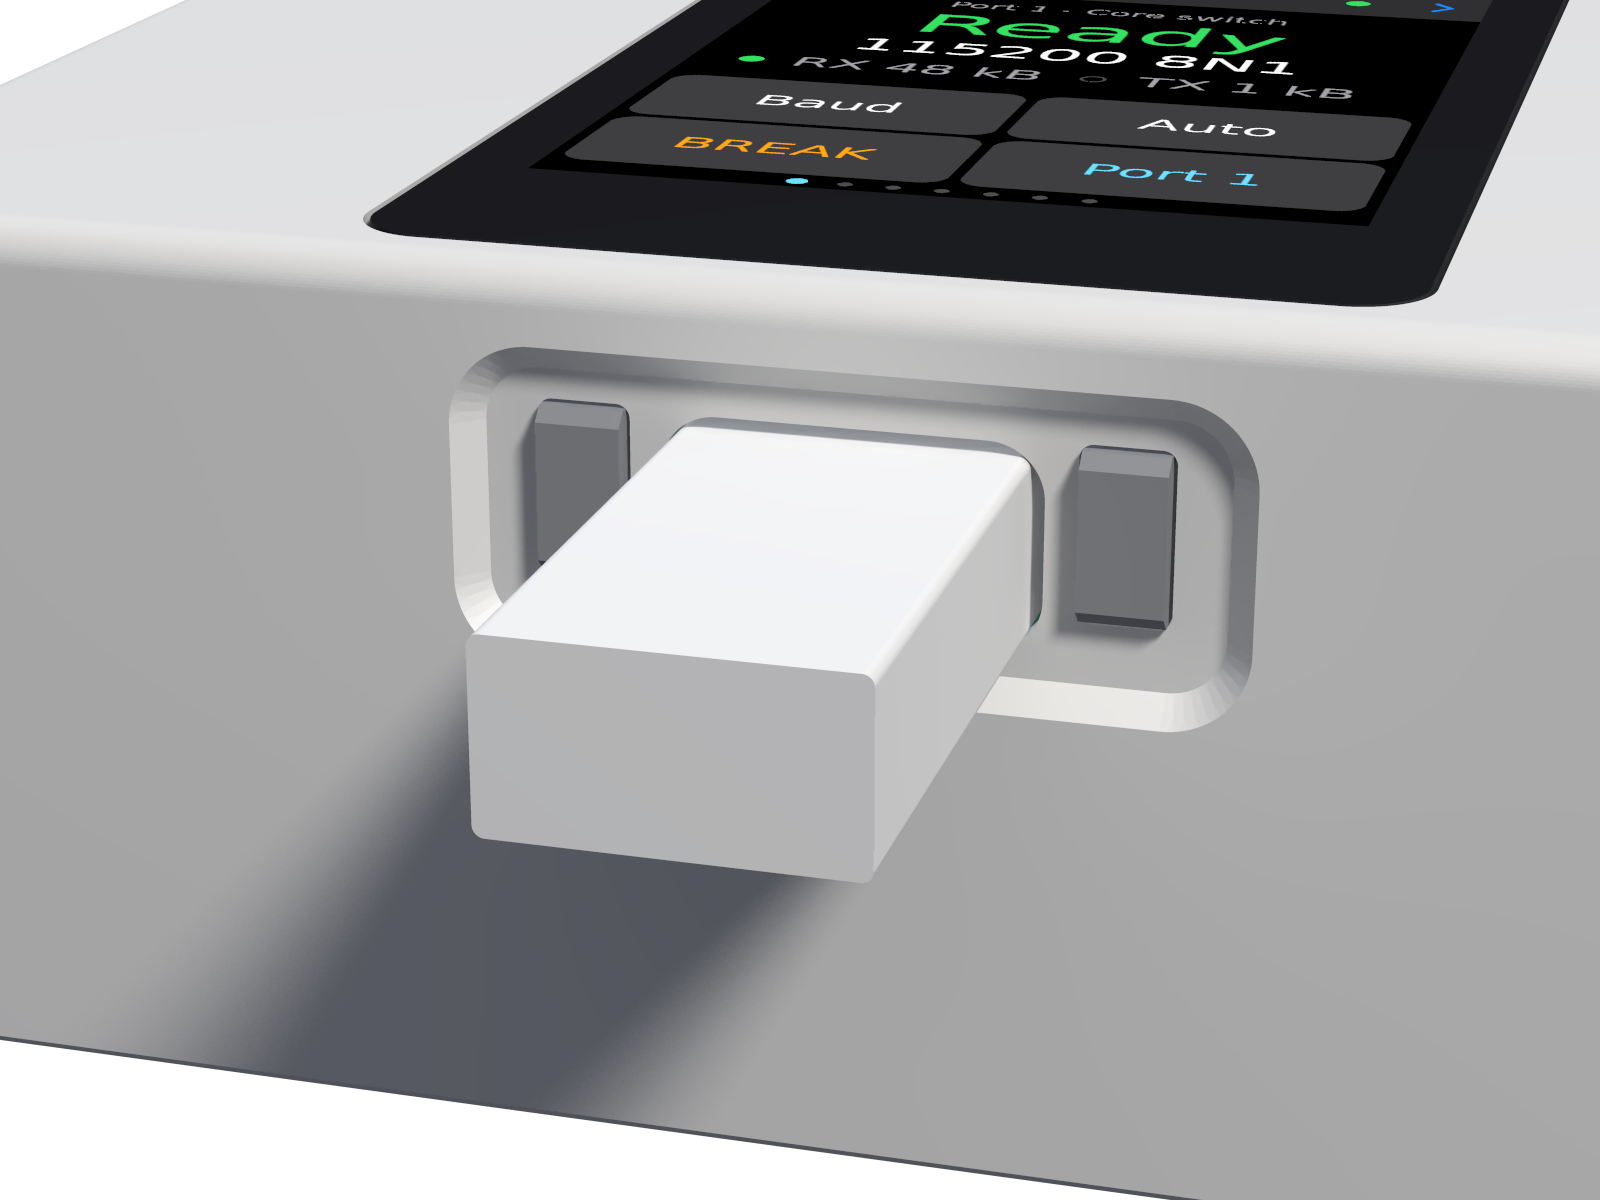
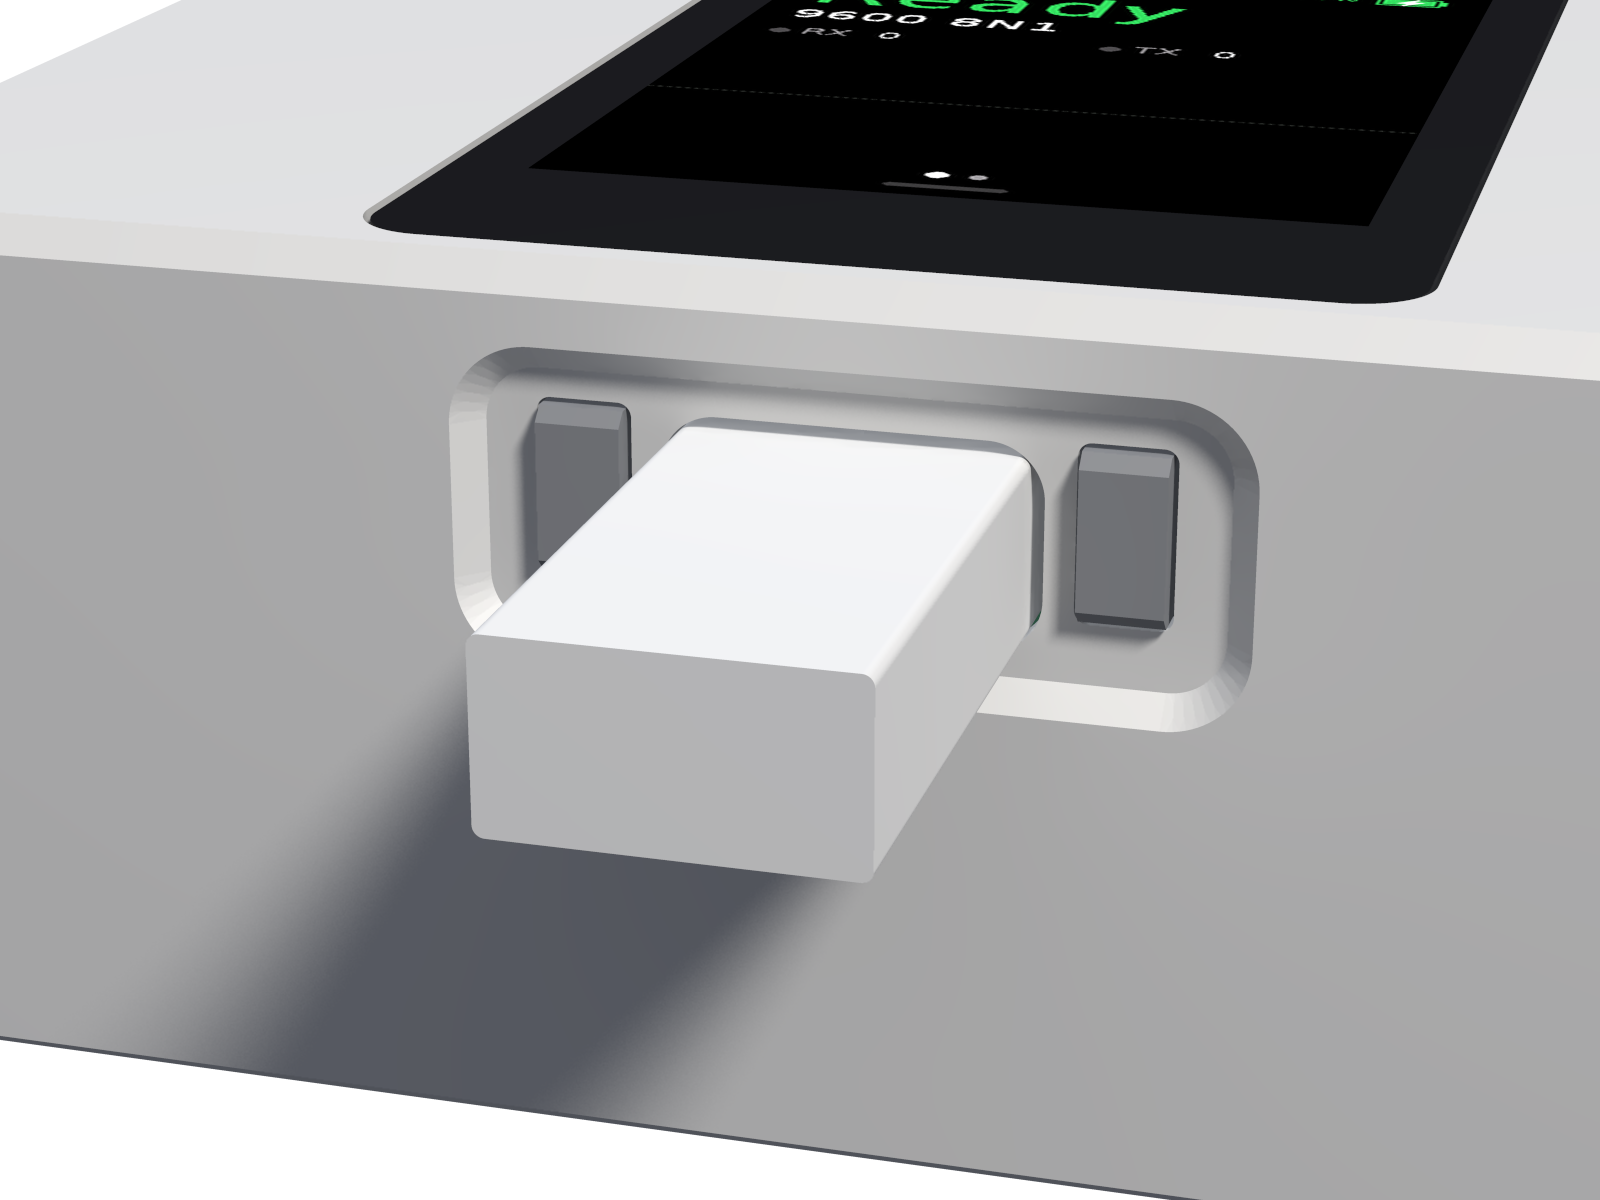
Gehäuse: Studiobilder für Präsentationen, Bilder mit der neuen Display-Oberfläche
render.py --studio schreibt out*/studio_*.png: Gerät auf schwarzem, spiegelndem Boden oder
vor hellem Hintergrund, weiche Schatten, Schichtlinien im PLA, USB-C-Kabel und Patchkabel.
Eine Lichtfläche steht dort, wo das Displayglas sie für die jeweilige Kamera spiegelt. Die
hellen Bilder werden durch ein Bild des leeren Bodens geteilt, damit der Hintergrund genau
die Farbe der Folie hat.

Alle Bilder der Dokumentation neu gerendert: Das Display zeigt die Startseite der
Firmware 1.8.2 (Screenshots vom Zweig main), die Schnitte zeigen die Maße für PLA.

Claude-Session: https://claude.ai/code/session_01NzB9JfE6QfygfS2yw734Lm

diff --git a/hardware/enclosure/render.py b/hardware/enclosure/render.py
@@ -61,6 +61,7 @@ global_settings { assumed_gamma 1.0 max_trace_level 8
 #ifndef (AR) #declare AR = 4/3; #end         // width / height of the picture
 #ifndef (Lcd) #declare Lcd = 1; #end         // 1 home page, 2 sheet with the baud ruler, 3 sheet with the QR code
 #ifndef (Zf) #declare Zf = __ZFLOOR__; #end  // height of the floor
+#ifndef (Empty) #declare Empty = 0; #end     // 1: the floor alone, the picture a light-sweep render is divided by
 #ifndef (SBa) #declare SBa = 62; #end        // soft box: what it covers on the glass, across and along the view (mm)
 #ifndef (SBl) #declare SBl = 84; #end
 #ifndef (SBo) #declare SBo = 0; #end         // shifted along the view (mm on the glass)
@@ -72,7 +73,7 @@ sphere { <40, 55, 0>, 2500 hollow no_image no_shadow no_reflection
   texture { pigment { gradient z color_map { [0.0 rgb <0.05, 0.055, 0.07>] [0.3 rgb <0.10, 0.11, 0.14>] [1.0 rgb <0.30, 0.32, 0.38>] } scale 2500 } finish { emission 1.0 ambient 0 diffuse 0 } } }
 #if (Floor = 2)   // far away and large: the same light everywhere on the floor, shadows still soft
 light_source { <40, 55, 0> + <-300, 325, 420> * 8 color rgb <1.0, 0.99, 0.97> * 1.0 area_light <1100, 0, 0>, <0, 1100, 0>, 9, 9 adaptive 1 jitter circular orient }
-light_source { <40, 55, 0> + <280, -135, 260> * 8 color rgb <0.9, 0.94, 1.0> * 0.35 area_light <640, 0, 0>, <0, 640, 0>, 5, 5 adaptive 1 jitter circular orient shadowless }
+light_source { <40, 55, 0> + <280, -135, 260> * 8 color rgb <0.9, 0.94, 1.0> * 0.4 area_light <1100, 0, 0>, <0, 1100, 0>, 9, 9 adaptive 1 jitter circular orient }
 #else
 light_source { <-260, 380, 420> color rgb <1.0, 0.98, 0.95> * 1.15 area_light <120, 0, 0>, <0, 120, 0>, 9, 9 adaptive 1 jitter circular orient }
 light_source { <320, -80, 260> color rgb <0.85, 0.9, 1.0> * 0.5 area_light <80, 0, 0>, <0, 80, 0>, 5, 5 adaptive 1 jitter circular orient shadowless }
@@ -153,7 +154,7 @@ __REST_DECL__
 plane { z, Zf pigment { rgb 0 } finish { diffuse 0 ambient 0 specular 0 reflection { 0.02, 0.45 fresnel on } } interior { ior 1.5 } }
 #end
 #if (Floor = 2)
-plane { z, Zf pigment { rgb <0.80, 0.80, 0.81> } finish { diffuse 0.9 ambient 0 } }
+plane { z, Zf pigment { rgb <0.96, 0.96, 0.97> } finish { diffuse 0.95 ambient 0 } }   // brighter than the case, so the case stands out
 #end
 #declare Feet = union {
 __FEET__
@@ -185,6 +186,11 @@ __FEET__
       <JX + Side * 46, JY - 104, Zf + 2.7>, 2.7, <JX + Side * 120, JY - 116, Zf + 2.7>, 2.7, <JX + Side * 280, JY - 108, Zf + 2.7>, 2.7
       tolerance 0.05 texture { T_patch } }
   }
+#end
+#if (Empty)
+  #declare Nothing = sphere { <0, 0, -100000>, 0.001 }
+  #declare Body = Nothing; #declare Base = Nothing; #declare Module = Nothing; #declare Carrier = Nothing;
+  #declare Keys = Nothing; #declare Feet = Nothing; #declare Plug = Nothing; #declare UsbCable = Nothing;
 #end
 #switch (View)
 #case (21)  // studio: the whole device, USB-C end towards the viewer
@@ -221,7 +227,7 @@ __FEET__
 #case (27)  // studio: at work - a patch cable in port 1, charging over USB-C
   Cam(176, -232, 124, 46, 36, -2, 33)
   object { Body } object { Base } object { Module } object { Carrier } object { Keys } object { Feet } object { Plug } object { UsbCable }
-  Patch(0, -1)
+  Patch(0, 1)
 #break
 #case (1)   // hero: USB-C end towards the viewer
   Cam(-85, 300, 150, 40, 62, 0, 30)
@@ -402,20 +408,26 @@ STUDIO_VIEWS = [
 LIGHT_BG = (245, 245, 247)       # the light slides of the presentation
 
 
-def flatten_backdrop(path):
-    """Light sweep: scale the picture so that the open floor comes out in exactly LIGHT_BG, and let the edges
-    run into that colour, so the picture has no visible border on a slide of the same colour."""
+def flatten_backdrop(path, flat):
+    """Light sweep: divide the picture by the picture of the empty floor, so that the open floor comes out in
+    exactly LIGHT_BG and only the shadows remain.  On a slide of that colour the picture then has no border."""
     import numpy as np
-    from PIL import Image
+    from PIL import Image, ImageFilter
     a = np.asarray(Image.open(path).convert("RGB")).astype(float)
+    b = np.asarray(Image.open(flat).convert("RGB").filter(ImageFilter.GaussianBlur(12))).astype(float)
+    a = np.minimum(a / np.maximum(b, 1.0) / 0.985, 1.0) * np.array(LIGHT_BG)     # nothing brighter than the backdrop
+    Image.fromarray(feather(a)).save(path)
+    os.remove(flat)
+
+
+def feather(a):
+    """Let the outer 7 % of a light picture run into LIGHT_BG: a shadow that reaches the edge then ends softly."""
+    import numpy as np
     h, w, _ = a.shape
-    corners = np.concatenate([a[:40, :40].reshape(-1, 3), a[:40, -40:].reshape(-1, 3)])      # the far floor
-    a = a * (np.array(LIGHT_BG) / np.median(corners, axis=0))
     yy, xx = np.mgrid[0:h, 0:w]
-    edge = np.minimum.reduce([xx, yy, w - 1 - xx, h - 1 - yy]) / (0.05 * w)
-    k = np.clip(edge, 0, 1)[..., None] ** 0.8
-    a = a * k + np.array(LIGHT_BG) * (1 - k)
-    Image.fromarray(np.clip(a, 0, 255).astype("uint8")).save(path)
+    t = np.clip(np.minimum.reduce([xx, yy, w - 1 - xx, h - 1 - yy]) / (0.07 * w), 0, 1)
+    k = (t * t * (3 - 2 * t))[..., None]
+    return np.clip(a * k + np.array(LIGHT_BG) * (1 - k), 0, 255).astype("uint8")
 
 
 def studio():
@@ -437,7 +449,9 @@ def studio():
         r = subprocess.run(args, cwd=OUT, capture_output=True, text=True)
         good = r.returncode == 0 and os.path.exists(out)
         if good and floor == 2:
-            flatten_backdrop(out)
+            flat = os.path.join(OUT, "_flat.png")
+            subprocess.run([a for a in args if not a.startswith("+O")] + [f"+O{flat}", "Declare=Empty=1"], cwd=OUT, capture_output=True, text=True)
+            flatten_backdrop(out, flat)
         ok &= good
         print("studio", name, "ok" if good else r.stderr[-900:])
     return 0 if ok else 1

diff --git a/hardware/README.md b/hardware/README.md
@@ -178,7 +178,9 @@ Um die Buchse liegt eine 1 mm tiefe Mulde mit 45°-Flanken (28 × 11,6 mm). Dari
   versehentlich drückt. Schultern am Schieber verhindern, dass er nach außen herausfällt; nach innen hält ihn
   der Taster. Zurück federt der Taster selbst.
 
-Schnitte mit Maßen: `enclosure/out/detail_sections.png`.
+Schnitte mit Maßen: `enclosure/out/detail_sections.png`. Studiobilder für Präsentationen (Boden mit Spiegelung
+oder heller Hintergrund, Kabel, die Seiten der Firmware auf dem Display): `python3 render.py --studio`,
+Ergebnis in `enclosure/out/studio_*.png`.
 
 ### Zusammenbau
 
